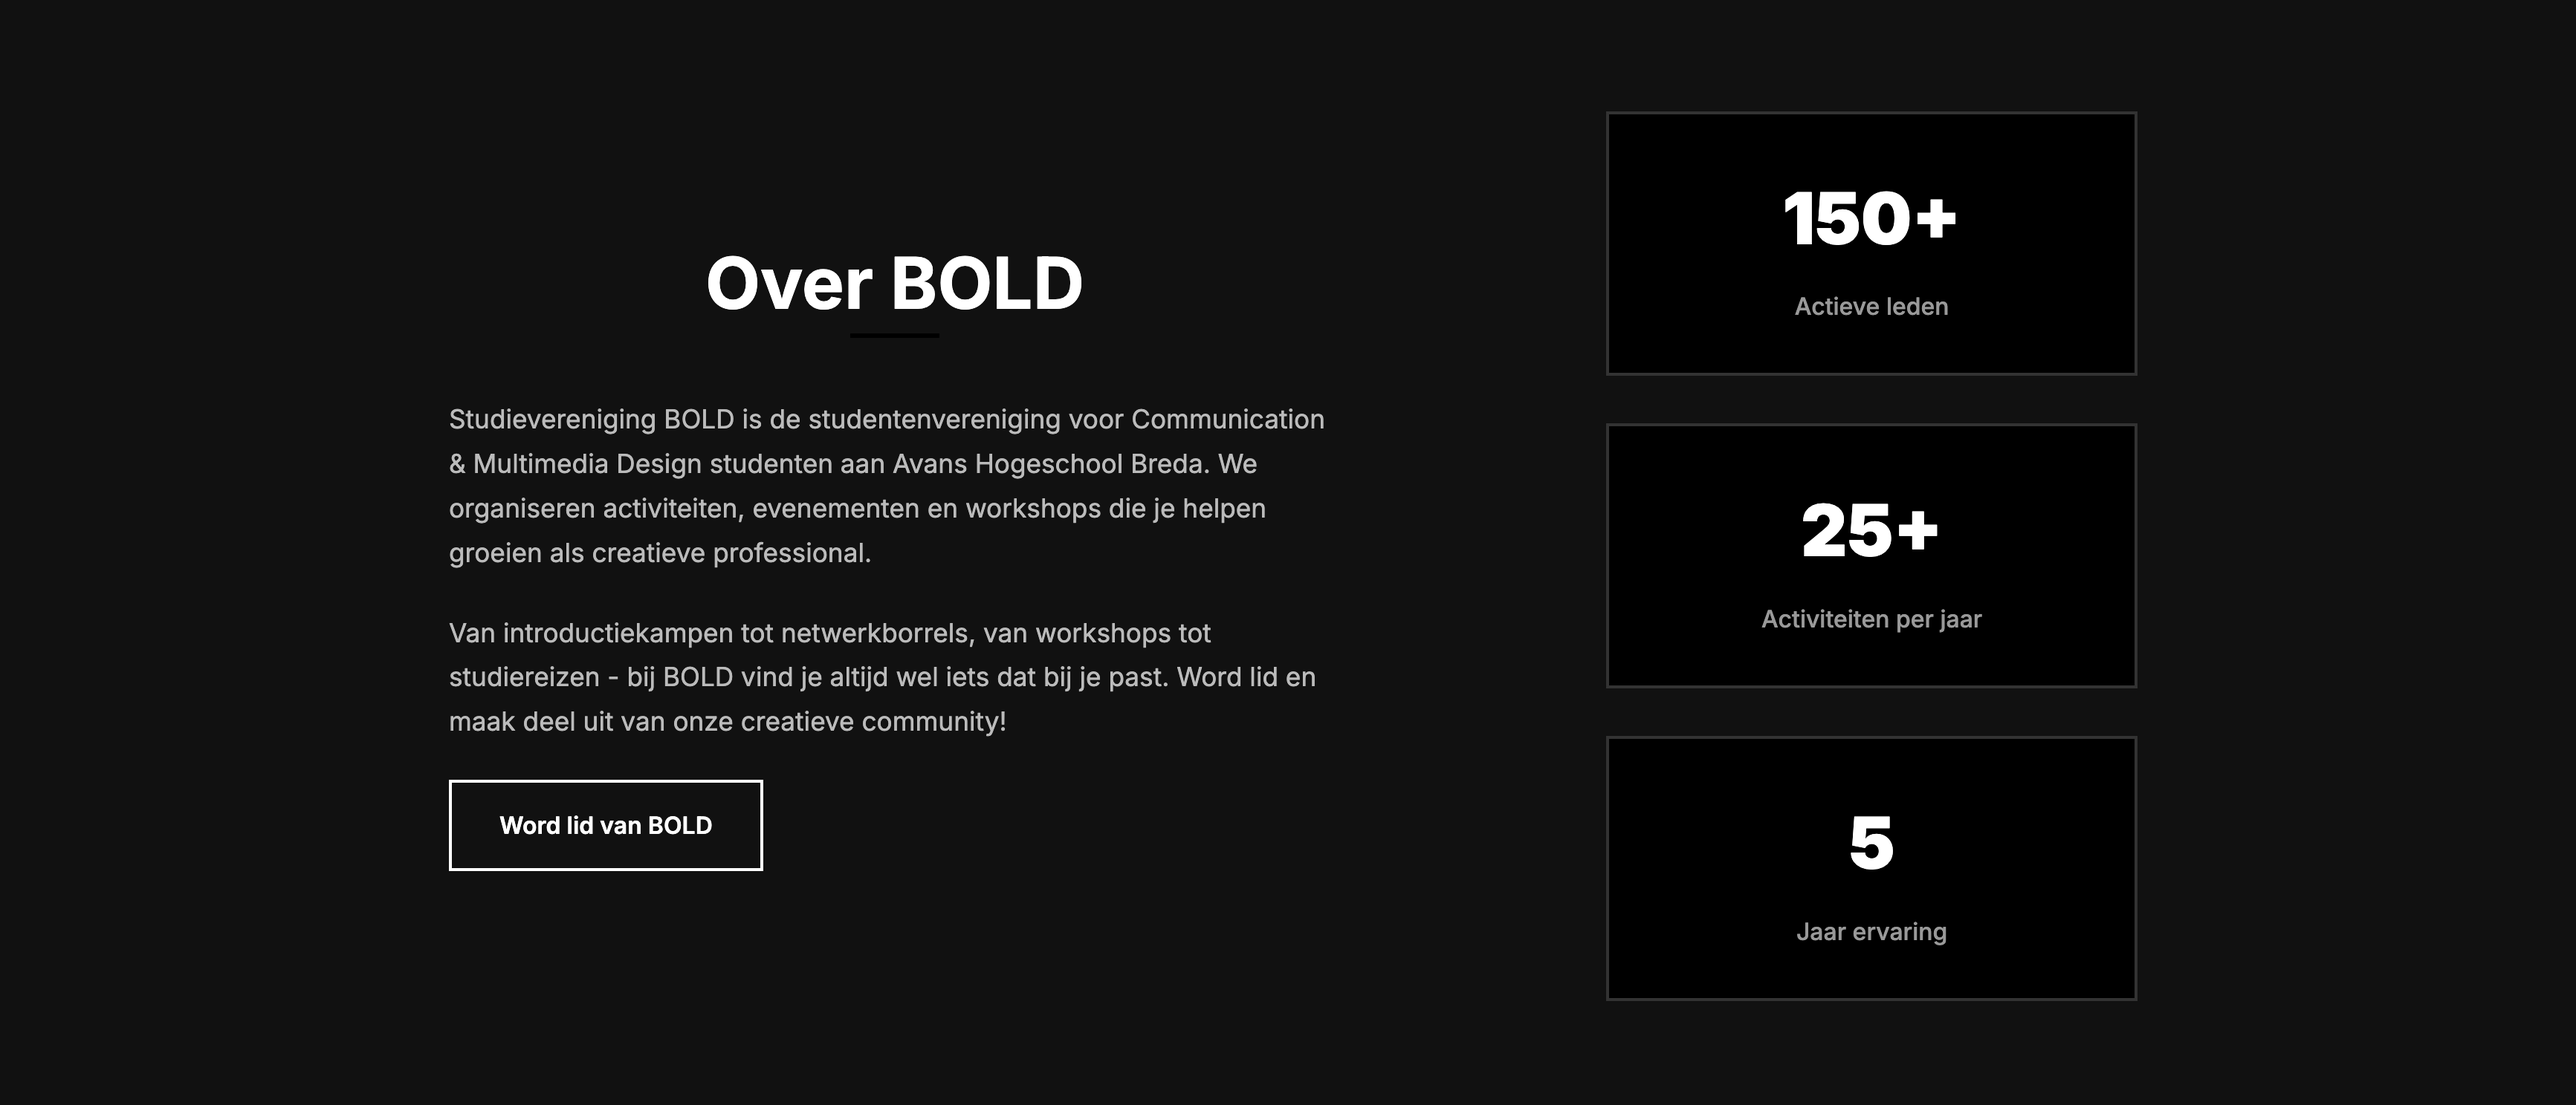
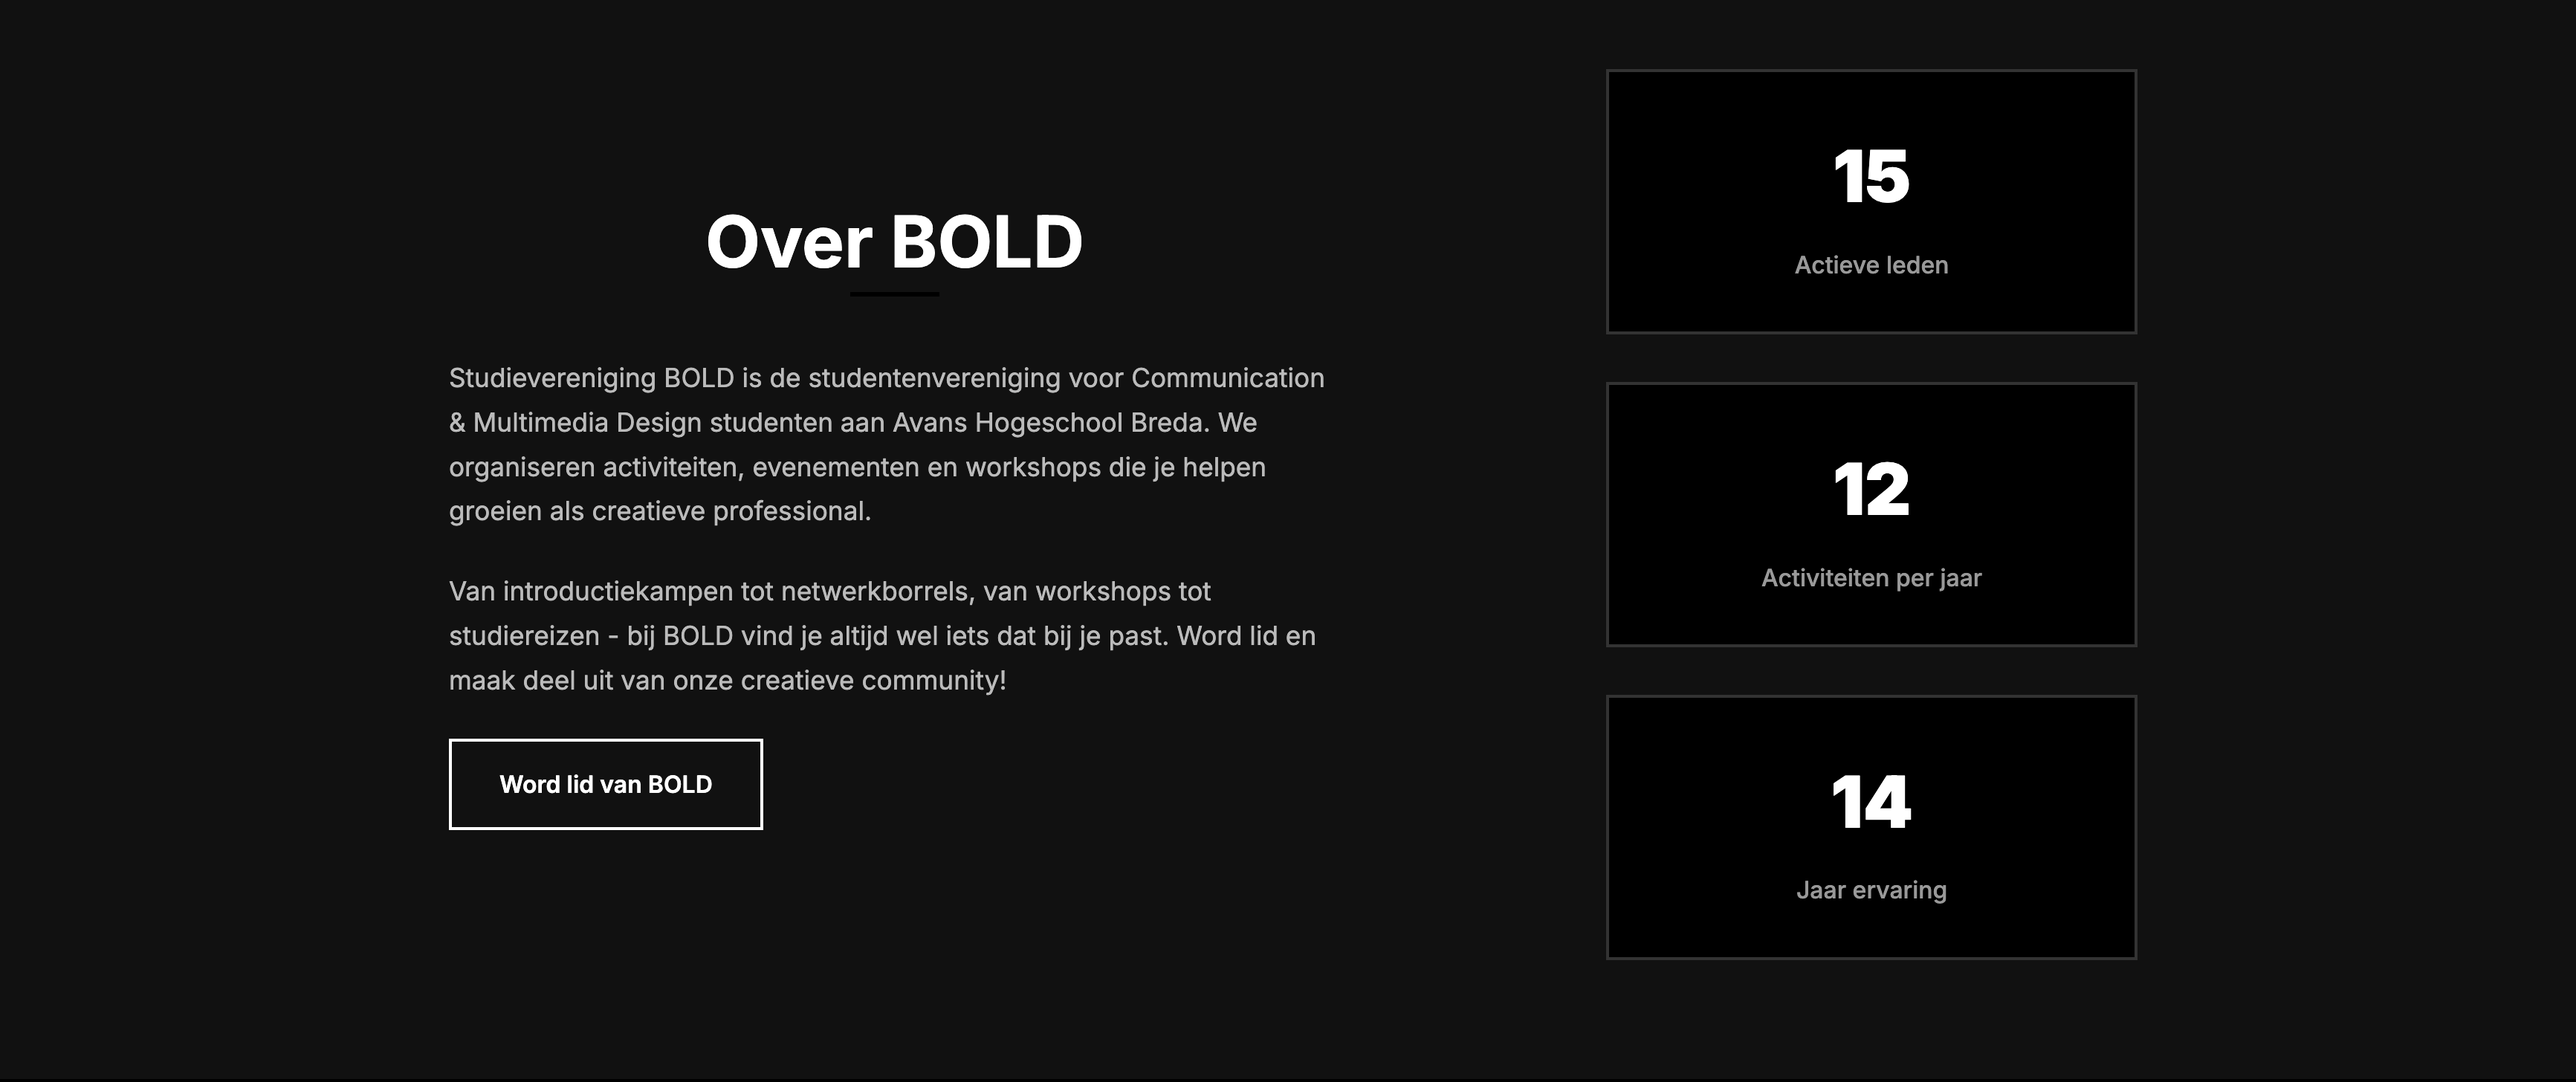
bold update

diff --git a/index.html b/index.html
@@ -72,7 +72,7 @@
               <p class="project-text">Een moderne website voor studievereniging BOLD, ontworpen en ontwikkeld met de focus op een dynamisch platform dat community, events en informatie samenbrengt in een consistente, herkenbare stijl. 
                 <br>
                 <br>
-                <a class="project-text-link" href="https://thieuvanbezooijen.nl/Bold-website" target="_blank" rel="noopener">Volledige website bekijken →</a>
+                <a class="project-text-link" href="https://studieverenigingbold.nl" target="_blank" rel="noopener">Volledige website bekijken →</a>
               </p>
             </header>
             <div class="project-grid-bold-bottom">
@@ -80,7 +80,7 @@
             </div>
           </div>
           <aside class="project-side-bold">
-            <iframe src="https://thieuvanbezooijen.nl/Bold-website" width="100%" height="300" class="bold-iframe rounded">
+            <iframe src="https://studieverenigingbold.nl" width="100%" height="300" class="bold-iframe rounded">
               <p>Your browser does not support iframes.</p>
             </iframe>
           </aside>
